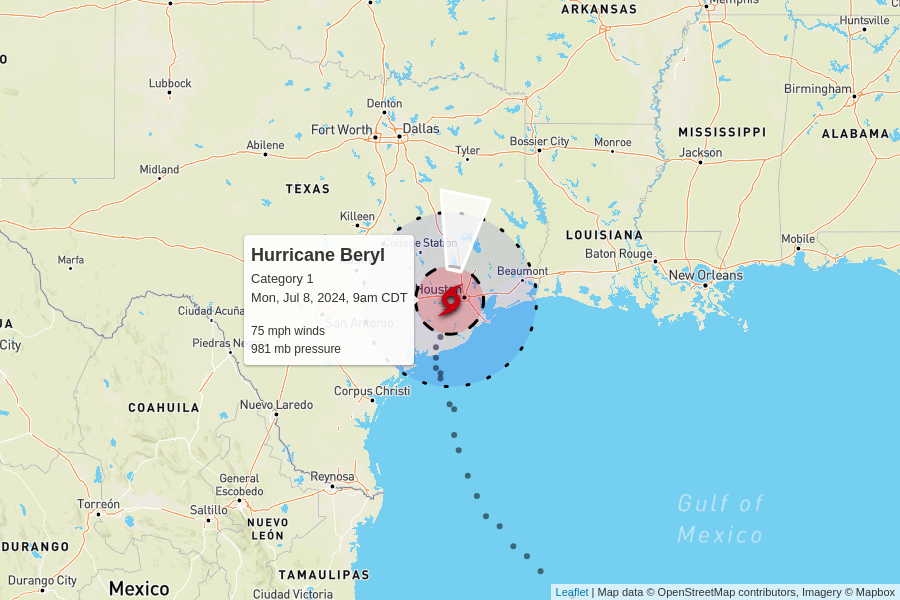
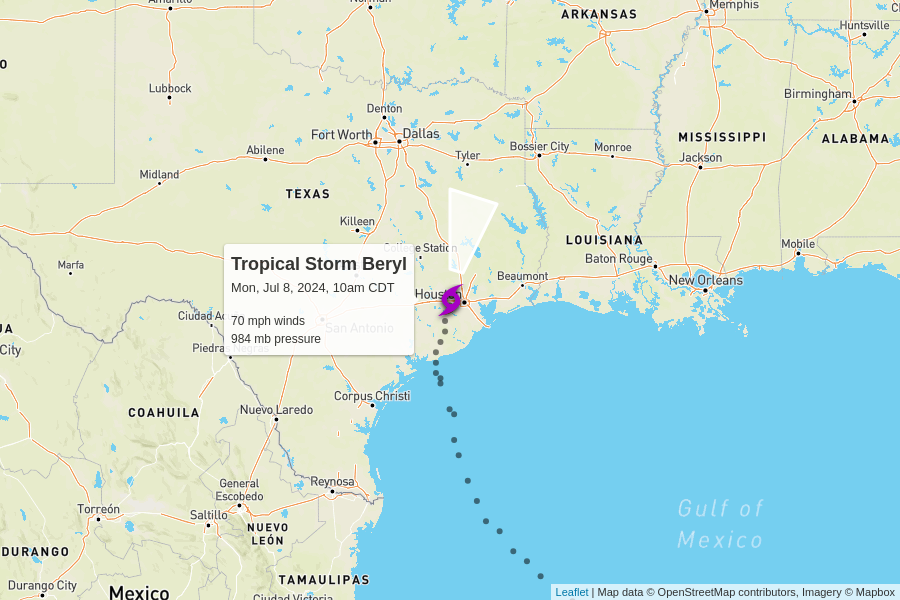
automatic update

diff --git a/docs/index.html b/docs/index.html
@@ -99,10 +99,10 @@
 
     <table>
       <tr>
-        <td colspan="6" class="storm category-1" >
+        <td colspan="6" class="storm category-0" >
           <h2>
-            Hurricane Beryl - Category 1
-            <p class="updated">last updated <span data-time>2024-07-08T14:00:00.000Z</span></p>
+            Tropical Storm Beryl
+            <p class="updated">last updated <span data-time>2024-07-08T15:00:00.000Z</span></p>
           </h2>
         </td>
       </tr>
@@ -117,12 +117,12 @@
       </tr>
       <tr>
         <td class="spacer"></td>
-        <td>75 mph<br>0 mph since last update</td>
-        <td>981 mb<br>+1 mb since last update</td>
+        <td>70 mph<br>-5 mph since last update</td>
+        <td>984 mb<br>+3 mb since last update</td>
         <td>
-          12 mph to the north
+          13 mph to the north-northeast
           <br/>
-          <span style="display: inline-block; font-size: 1.5em; transform: rotate(10deg);">↑</span>
+          <span style="display: inline-block; font-size: 1.5em; transform: rotate(15deg);">↑</span>
         </td>
         <td><a href="https://raw.githubusercontent.com/mgwalker/atlantic-hurricanes/main/data/csv/AL022024.csv">AL022024.csv</a></td>
         <td><a href="https://www.nhc.noaa.gov/archive/2024/BERYL.shtml?">NHC advisories</a></td>
